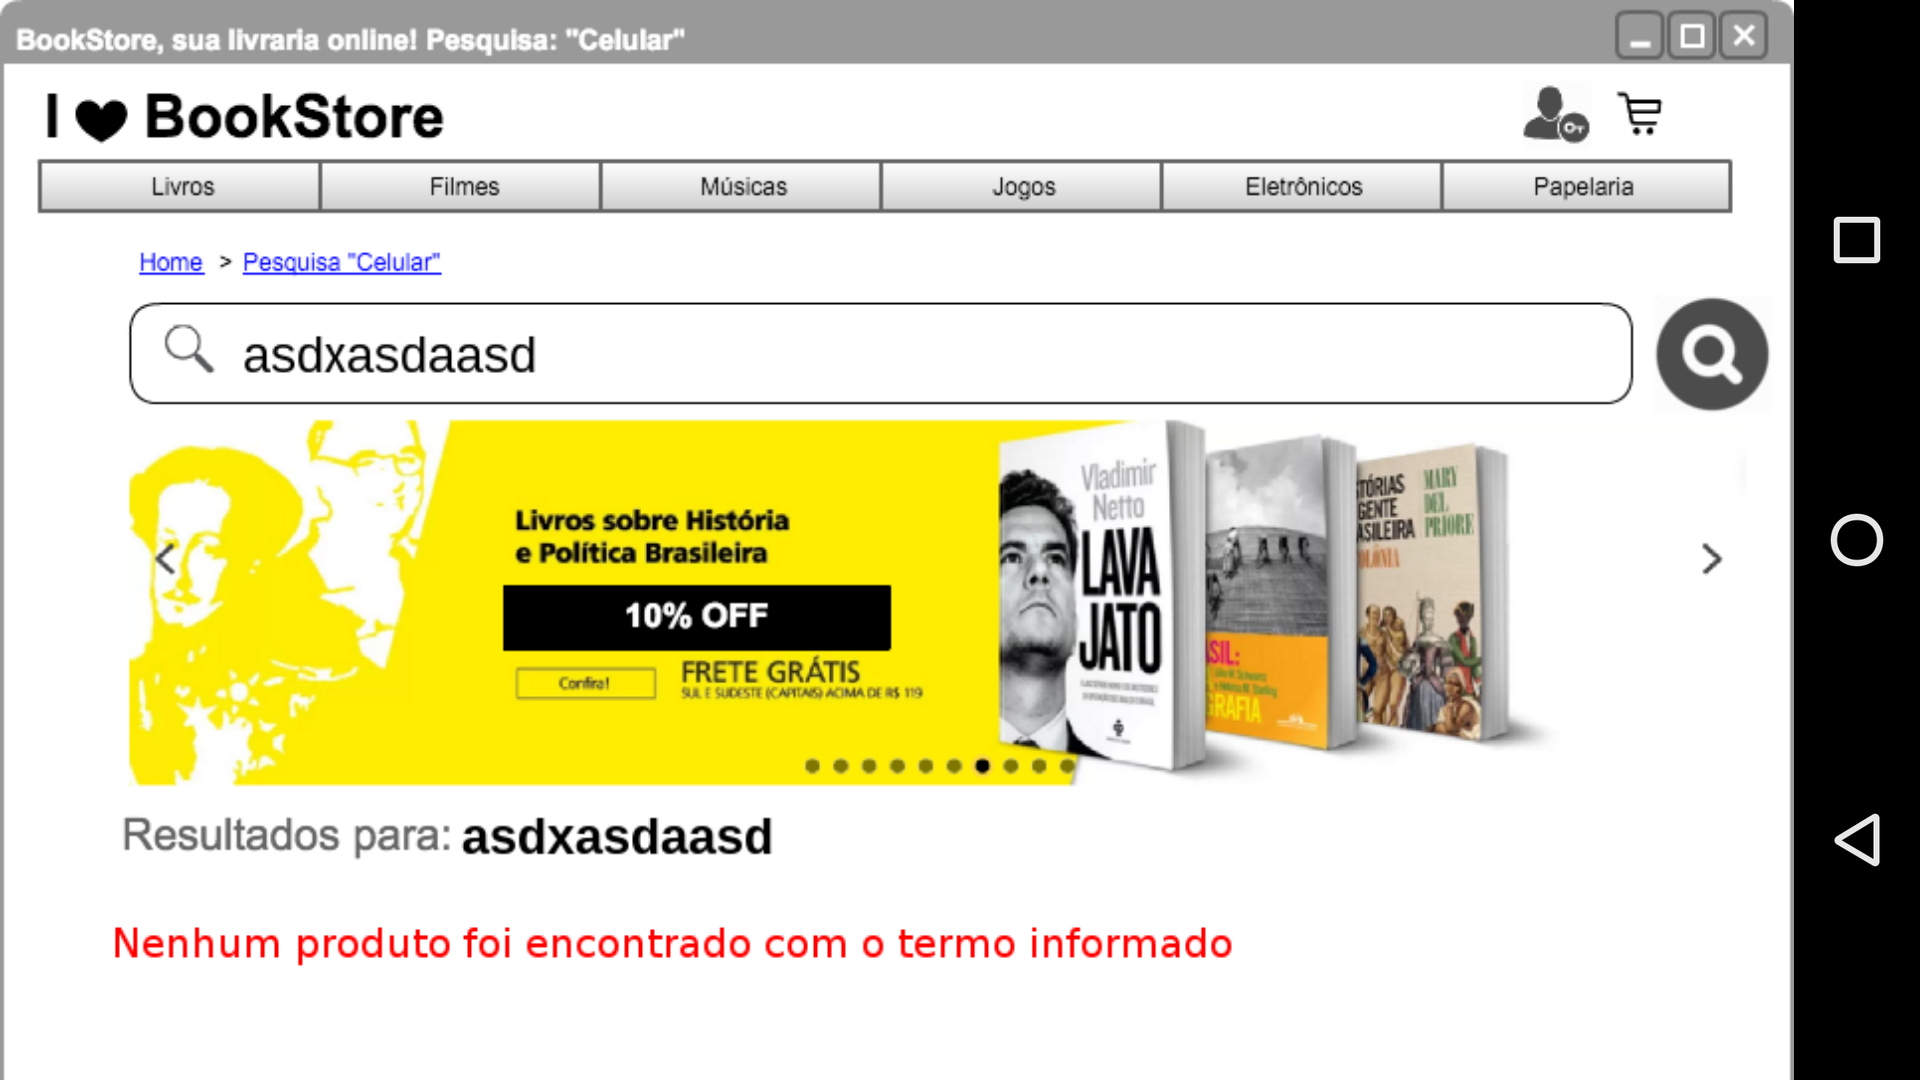
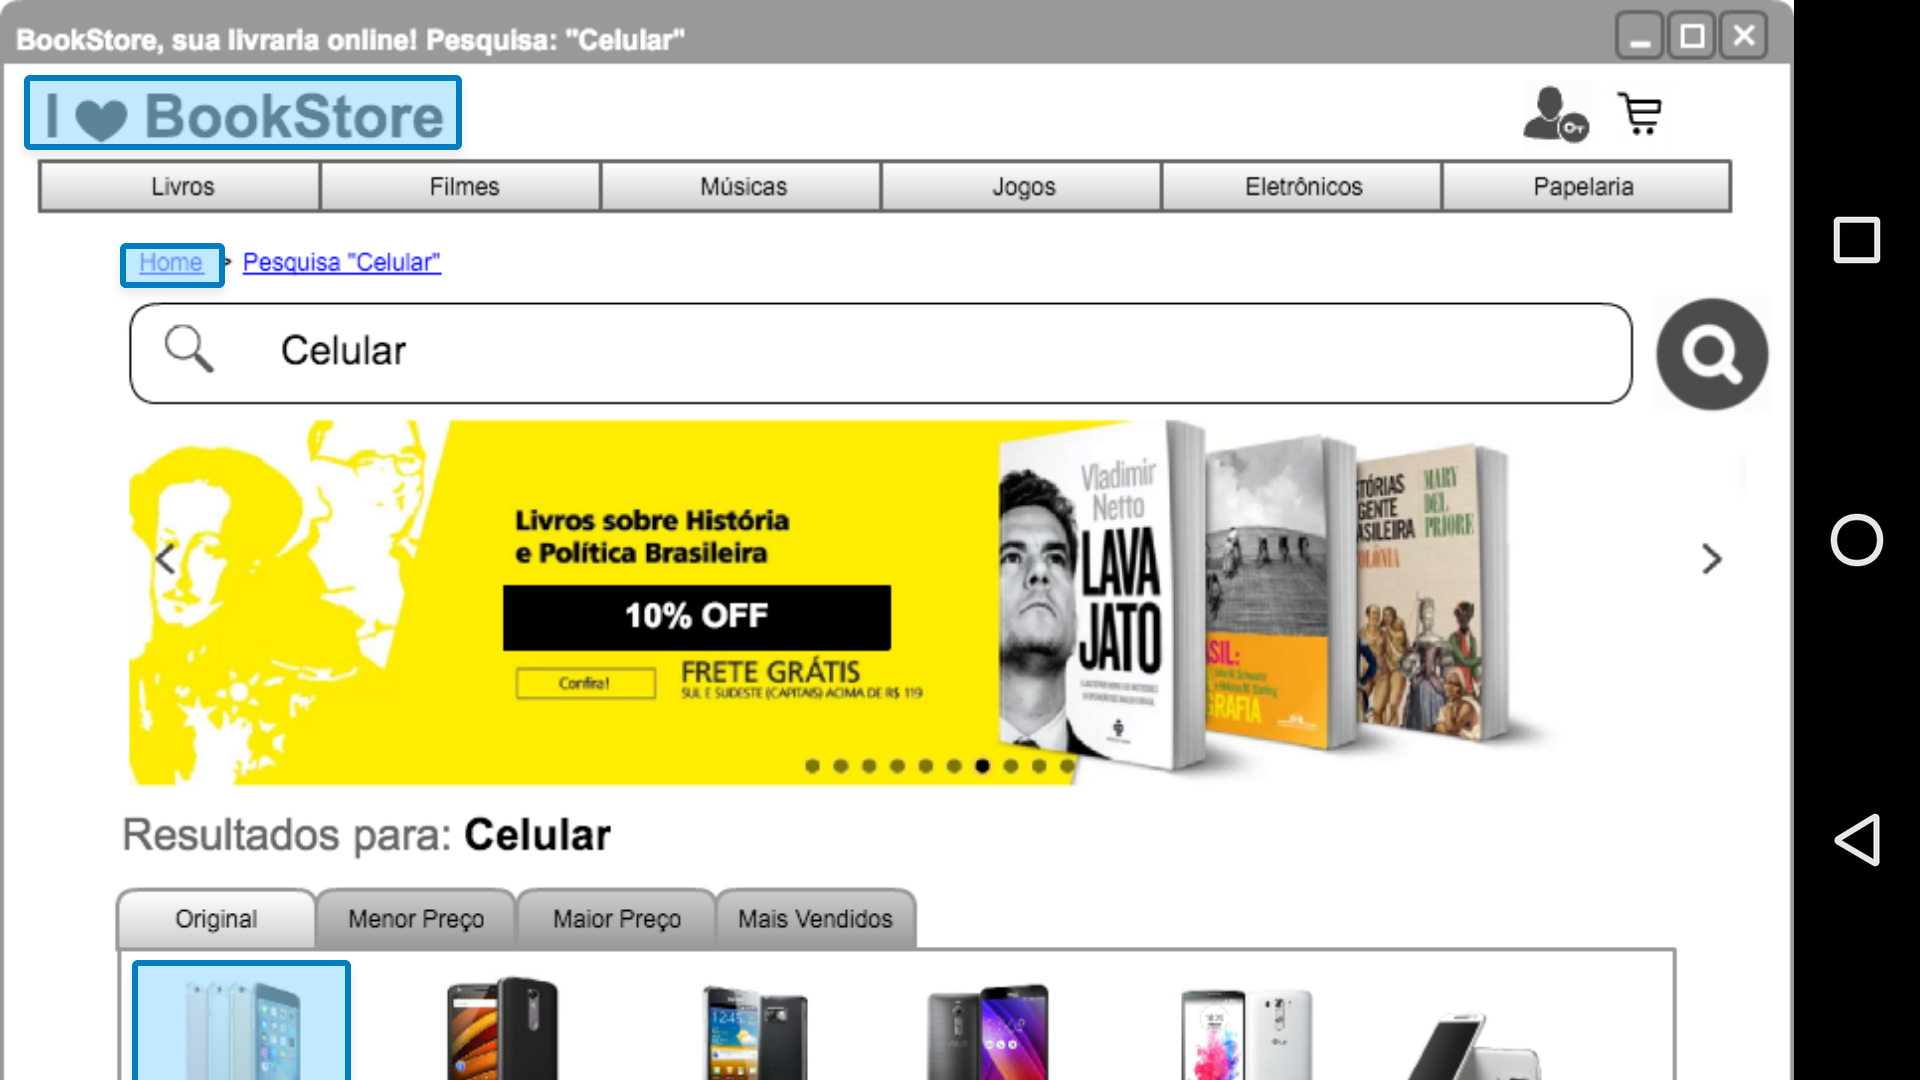
Adicionado testes até o vértice de ResumoCompra

diff --git a/src/main/java/br/com/unicamp/inf321/models/bookstore/BookstoreModel.java b/src/main/java/br/com/unicamp/inf321/models/bookstore/BookstoreModel.java
@@ -5,6 +5,8 @@ import org.graphwalker.java.annotation.GraphWalker;
 import org.openqa.selenium.By;
 import org.openqa.selenium.WebDriver;
 import org.openqa.selenium.WebElement;
+import org.openqa.selenium.interactions.TouchScreen;
+import org.openqa.selenium.interactions.touch.ScrollAction;
 import org.openqa.selenium.support.ui.ExpectedConditions;
 import org.openqa.selenium.support.ui.WebDriverWait;
 
@@ -47,13 +49,16 @@ public class BookstoreModel extends ExecutionContext implements Grupo061{
 	@Override
 	public void v_ResumoCompra() {
 		// TODO Auto-generated method stub
-		
+		By telaCarrinho = By.className("android.widget.Image");
+		wait.until(ExpectedConditions.visibilityOfElementLocated(telaCarrinho));
 	}
 
 	@Override
 	public void e_AdicionarProdutos() {
 		// TODO Auto-generated method stub
-		
+		TouchAction clicarComprar = new TouchAction(driver);
+		// clique no botão continuar comprando
+		clicarComprar.tap(1250,900).perform();		
 	}
 
 	@Override
@@ -65,8 +70,20 @@ public class BookstoreModel extends ExecutionContext implements Grupo061{
 	@Override
 	public void e_enderecoEntregaSelecionado() {
 		// TODO Auto-generated method stub
+		// TODO Auto-generated method stub
+		TouchAction clicarInformarCep   = new TouchAction(driver);
+		TouchAction clicarCalcularFrete = new TouchAction(driver);
+		TouchAction clicarFinalizar		= new TouchAction(driver);
+		// informar CEP
+		clicarInformarCep.tap(404, 870).perform();
+		// clique no botão calcular frete
+		clicarCalcularFrete.tap(768,868).perform();
+		
+		//Finalizar Compra
+		clicarFinalizar.tap(1620,555).perform();
 		
 	}
+	
 
 	@Override
 	public void e_pagamentoEfetivado() {
@@ -125,7 +142,10 @@ public class BookstoreModel extends ExecutionContext implements Grupo061{
 	@Override
 	public void v_Login() {
 		// TODO Auto-generated method stub
-		
+		TouchAction clicarLogin = new TouchAction(driver);
+		By telaLogin = By.className("android.widget.Image");
+		// clique no botão continuar comprando
+		clicarLogin.tap(189, 761).perform();
 	}
 
 	@Override
@@ -138,7 +158,8 @@ public class BookstoreModel extends ExecutionContext implements Grupo061{
 	@Override
 	public void v_Inicial() {
 		// TODO Auto-generated method stub
-		driver.pressKeyCode(AndroidKeyCode.KEYCODE_MENU);
+		By telaInicial = By.className("android.widget.Image");
+		wait.until(ExpectedConditions.visibilityOfElementLocated(telaInicial));
 		
 	}
 
@@ -151,7 +172,8 @@ public class BookstoreModel extends ExecutionContext implements Grupo061{
 	@Override
 	public void v_Produtos() {
 		// TODO Auto-generated method stub
-		
+		By telaProdutos = By.className("android.widget.Image");
+		wait.until(ExpectedConditions.visibilityOfElementLocated(telaProdutos));
 	}
 
 	@Override
@@ -163,7 +185,8 @@ public class BookstoreModel extends ExecutionContext implements Grupo061{
 	@Override
 	public void v_ModalidadesEntrega() {
 		// TODO Auto-generated method stub
-		
+		By telaWhatever = By.className("android.widget.Image");
+		wait.until(ExpectedConditions.visibilityOfElementLocated(telaWhatever));		
 	}
 
 	@Override
@@ -188,19 +211,33 @@ public class BookstoreModel extends ExecutionContext implements Grupo061{
 	public void e_Pesquisar() {
 		// TODO Auto-generated method stub
 		TouchAction clicarPesquisa = new TouchAction(driver);
-		//clique na barra de busca
-		By telaInicial = By.className("android.widget.Image");
-		wait.until(ExpectedConditions.visibilityOfElementLocated(telaInicial));
-		clicarPesquisa.tap(450,350).perform(); //250, 1000
+
+		//By telaApp = By.className("android.widget.Image");
+		//wait.until(ExpectedConditions.visibilityOfElementLocated(telaApp));
+		
+		//Tem q clicar 2x para fazer uma busca valida	
+		clicarPesquisa.tap(450,350).perform();
+		//wait.until(ExpectedConditions.visibilityOfElementLocated(telaApp));
+		clicarPesquisa.tap(450,350).perform();
+		//wait.until(ExpectedConditions.visibilityOfElementLocated(telaApp));
 		//clique no botão pesquisar
-		wait.until(ExpectedConditions.visibilityOfElementLocated(telaInicial));
 		clicarPesquisa.tap(1700,350).perform();
+		
+		//escolher o produto propriamente dito
+		clicarPesquisa.tap(250,1000).perform();
 	}
 
 	@Override
 	public void e_InformarEstoque() {
 		// TODO Auto-generated method stub
-		
+		TouchAction clicarVoltaInicio = new TouchAction(driver);
+		By telaFinalCompra = By.className("android.widget.logImage");
+		// clique no botão continuar comprando
+		wait.until(ExpectedConditions.visibilityOfElementLocated(telaFinalCompra));
+		clicarVoltaInicio.tap(896, 795).perform();
+		// clique no menu bookstore
+		wait.until(ExpectedConditions.visibilityOfElementLocated(telaFinalCompra));
+		clicarVoltaInicio.tap(221, 111).perform();
 	}
 
 	@Override

diff --git a/src/test/java/br/com/unicamp/inf321/BookstoreAppiumTest.java b/src/test/java/br/com/unicamp/inf321/BookstoreAppiumTest.java
@@ -111,7 +111,9 @@ public class BookstoreAppiumTest {
 		//percorre as arestas de inicio e de pesquisa até atingir o vértice de produtos (não fui até o final pois não implementei todos os cliques) 
 		cp.addPathGenerator(new AStarPath(new ReachedEdge("e_Iniciar")));
 		cp.addPathGenerator(new AStarPath(new ReachedEdge("e_Pesquisar")));
-		cp.addPathGenerator(new AStarPath(new ReachedVertex("v_Produtos")));
+		cp.addPathGenerator(new AStarPath(new ReachedEdge("e_AdicionarProdutos")));
+		//cp.addPathGenerator(new AStarPath(new ReachedEdge("e_enderecoEntrega")));
+		cp.addPathGenerator(new AStarPath(new ReachedVertex("v_ResumoCompra")));
 		//cp.addPathGenerator(new AStarPath(new ReachedVertex("v_EditNoteView")));
 		
 		Result result = new GraphWalkerTestBuilder()

diff --git a/src/main/java/br/com/unicamp/inf321/models/noteslist/NotesListModel.java b/src/main/java/br/com/unicamp/inf321/models/noteslist/NotesListModel.java
@@ -9,6 +9,7 @@ import org.graphwalker.core.machine.ExecutionContext;
 import org.graphwalker.java.annotation.GraphWalker;
 import org.openqa.selenium.By;
 import org.openqa.selenium.WebElement;
+import org.openqa.selenium.interactions.touch.ScrollAction;
 import org.openqa.selenium.support.ui.ExpectedConditions;
 import org.openqa.selenium.support.ui.WebDriverWait;
 
@@ -40,6 +41,7 @@ public class NotesListModel extends ExecutionContext implements NotesList {
 		wait.until(ExpectedConditions.elementToBeClickable(By.id("android:id/title")));
 		TouchAction touchAction = new TouchAction(driver);
     	touchAction.tap(895, 1655).perform();
+    	
 	}
 
 	@Override
